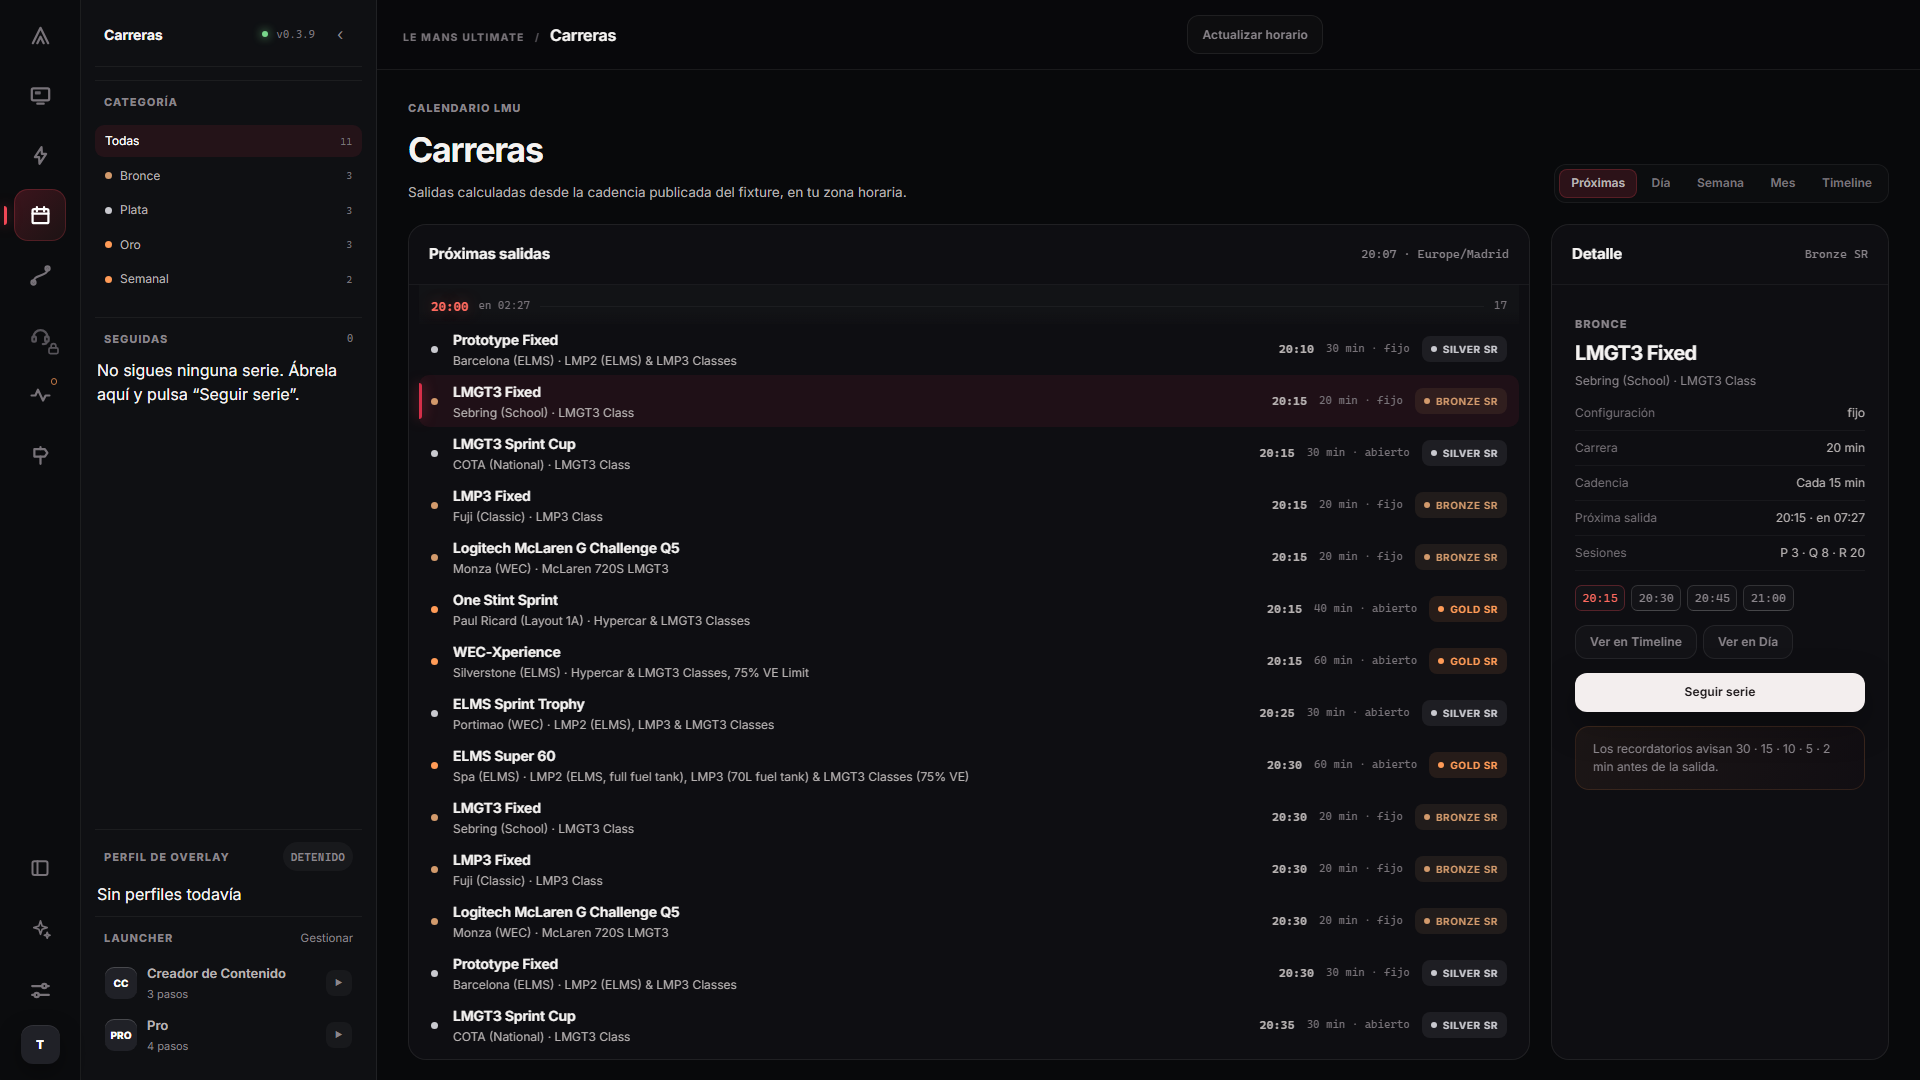
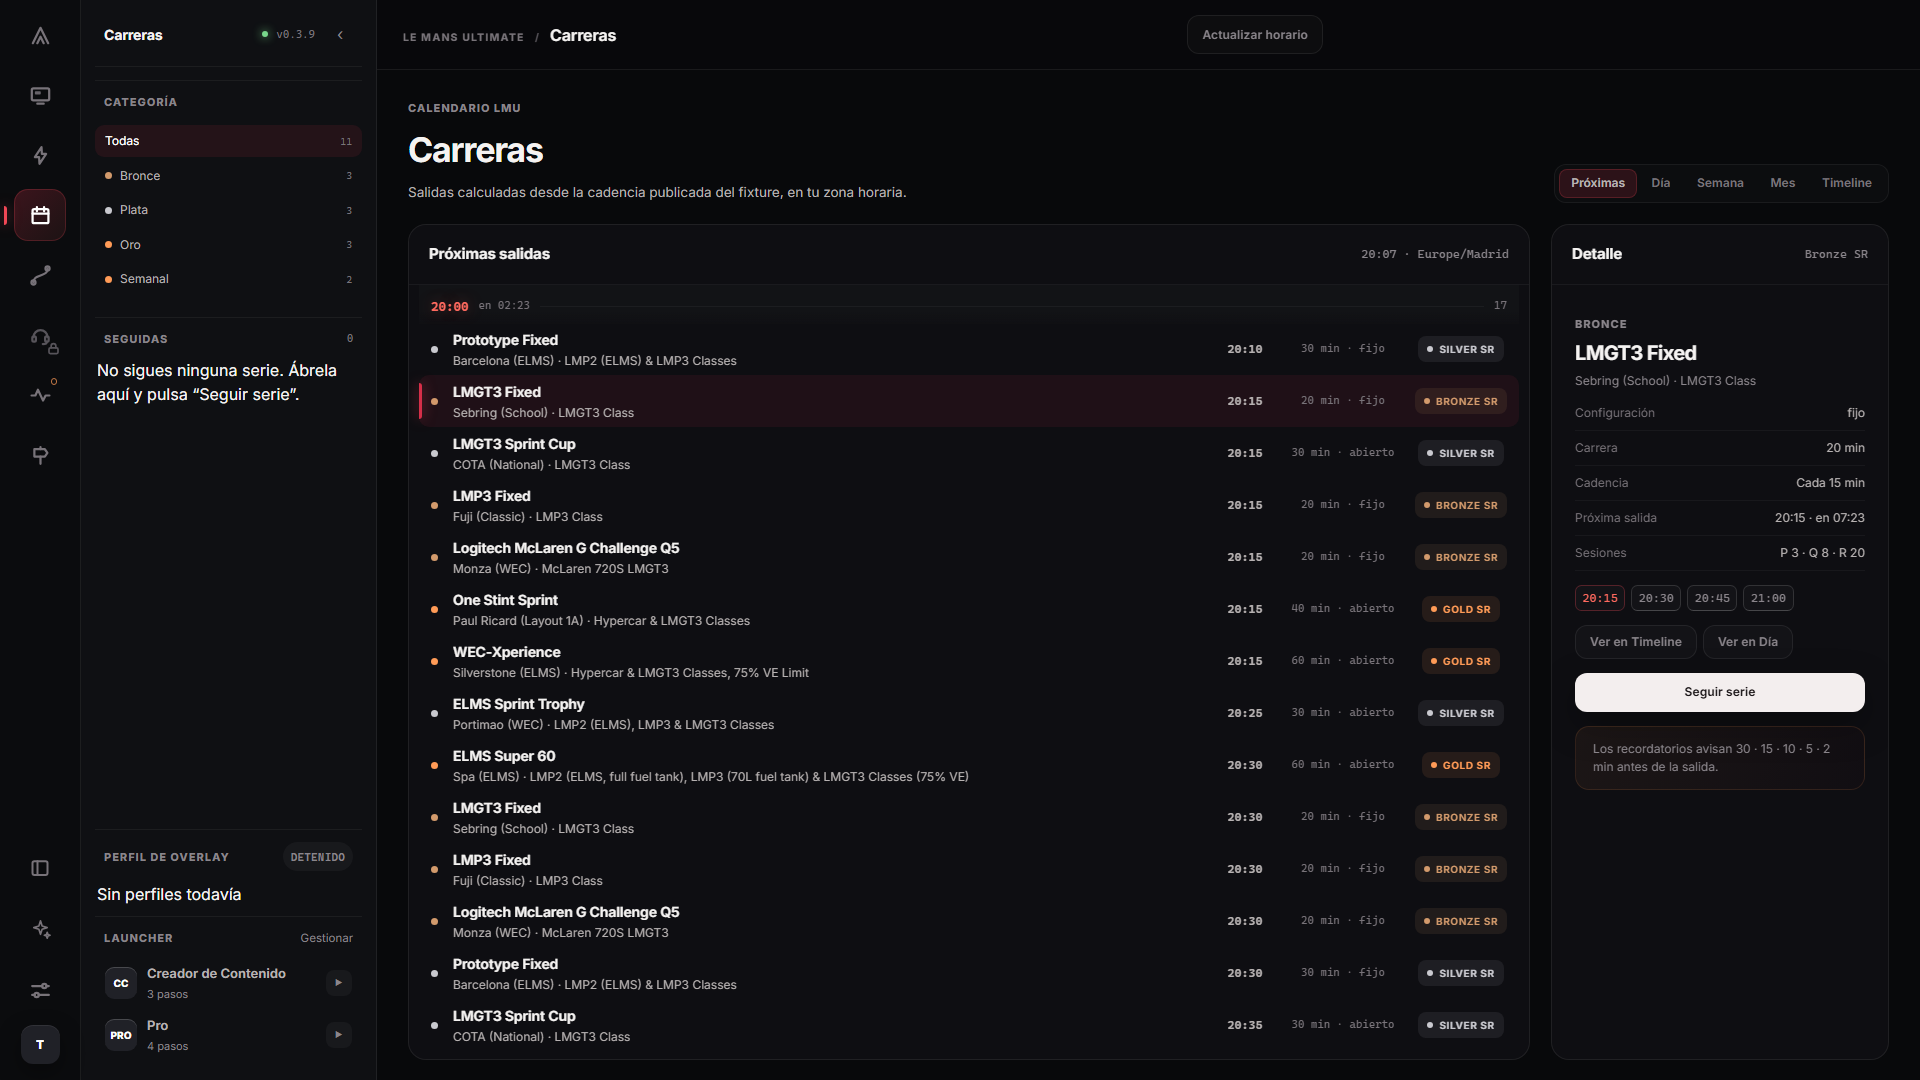
fix(calendar): align upcoming race columns

diff --git a/vantare-v2/frontend/src/styles/orbit-races.css b/vantare-v2/frontend/src/styles/orbit-races.css
@@ -170,7 +170,9 @@
 .orbit-races__nrow {
   position: relative;
   display: grid;
-  grid-template-columns: 10px minmax(0, 1fr) auto auto auto;
+  /* Las columnas de datos comparten tracks estables entre filas. Con `auto`,
+     cada combinación 20/30/60 min + Bronze/Silver/Gold desplazaba la hora. */
+  grid-template-columns: 10px minmax(0, 1fr) 3.25rem 7.5rem 5.75rem;
   gap: 12px;
   align-items: center;
   height: 52px;
@@ -235,17 +237,25 @@
 }
 
 .orbit-races__nrow-at {
+  justify-self: center;
   font-family: var(--orbit-font-mono);
   font-size: 12px;
   font-weight: 700;
+  text-align: center;
   color: var(--orbit-ink-2);
 }
 
 .orbit-races__dur {
+  justify-self: center;
   white-space: nowrap;
   font-family: var(--orbit-font-mono);
   font-size: 11px;
+  text-align: center;
   color: var(--orbit-ink-4);
+}
+
+.orbit-races__nrow > .orbit-chip {
+  justify-self: center;
 }
 
 .orbit-races__follow-mark {

diff --git a/vantare-v2/docs/vantare-program/handoffs/platform-commercial.md b/vantare-v2/docs/vantare-program/handoffs/platform-commercial.md
@@ -1,5 +1,21 @@
 # Handoff vivo — plataforma, cuenta, releases y migración
 
+## ISA-843 — columnas de Próximas alineadas
+
+- Rama aislada `vantareapp/isa-843-centrar-columnas-proximas`, basada en
+  `origin/nightly@8a90c3a7837166ffec6943c839f7cb31cbf11b31`.
+- En Carreras → Próximas, hora, duración/setup y licencia usan tracks estables
+  y centran su contenido. Ya no cambian de eje según 20/30/60 minutos ni según
+  Bronze/Silver/Gold.
+- El harness real de Carreras midió nueve filas: antes la hora variaba entre
+  673,06 y 692,39 px; después todas coinciden en 641 px. A 768 × 700, las nueve
+  filas mantienen los tres ejes y `overflowX = 0`.
+- Evidencia local: test focal 18/18, suite frontend 385 archivos/2.953 tests,
+  typecheck, build, lint focal y design-system PASS. El harness visual pasa en
+  1920 × 1080 y 1920 × 900 con gates de ejes compartidos y cero desbordamiento
+  de fila; la inspección colaborativa adicional pasa a 768 × 700.
+- No hay merge, promoción, release ni publicación; el cambio sigue aislado.
+
 ## Decisión comercial vigente — ISA-315
 
 - Hito de agosto: Overlay Studio V1 estable en `testers` antes del 2026-08-31.
